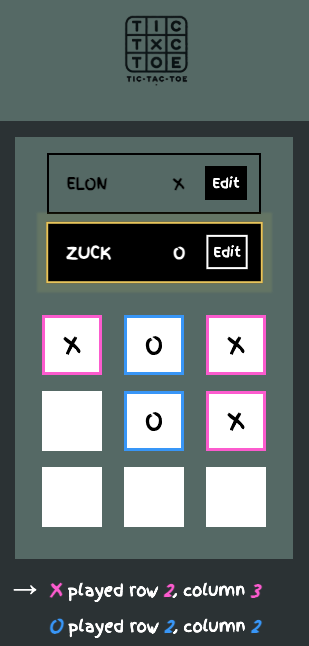
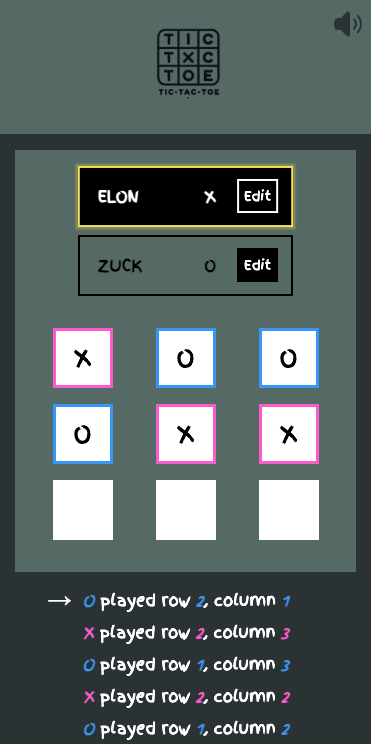
Update readme

diff --git a/README.md b/README.md
@@ -3,8 +3,9 @@
 This is a simple Tic Tac Toe game built using React and TypeScript. The game features a player vs player mode, where two players can take turns to place their marks (X and O) on the board. The game automatically detects when there is a winner or a draw and allows players to reset the game. [Click here to play live.](https://paologhidoni.github.io/tictactoe/)
 
 <div>
-  <img src="./public/tictactoe.png" style="max-width: 65%; height: auto;" />
-  <img src="./public/tictactoe-sm.png" style="max-width: 20%; height: auto; float: right" />
+  <img src="./public/tictactoe.png" style="max-width: 300px;" />
+  <img src="./public/tictactoe-sm.png" style="max-width: 150px;" />
+  <img src="./public/tictactoewon-sm.png" style="max-width: 150px;" />
 </div>
 
 ## Technologies Used
@@ -54,6 +55,8 @@ npm run dev
 - **GameBoard**: The 3x3 grid where players interact and place their marks.
 - **GameOver**: Displays the winner or draw message and includes a button to reset the game.
 - **Log**: Displays the history of moves made during the game.
+- **MusicPlayer**: It includes a hidden html audio tag to play a chillout mp3 track, and an icon that serves as button to toggle the music on and off.
+- **Footer**: It contains the Logs and MusicPlayer components, other than the credits to the music artist.
 
 ### How to Play
 
@@ -63,3 +66,4 @@ npm run dev
 - Players take turns to click on an empty cell to place their mark.
 - The game ends when a player wins or the game results in a draw (when all cells are filled).
 - You can reset the game by clicking the "Play again!" button.
+- You can toggle the music on and off by clicking the audio icon at the top right corner.
